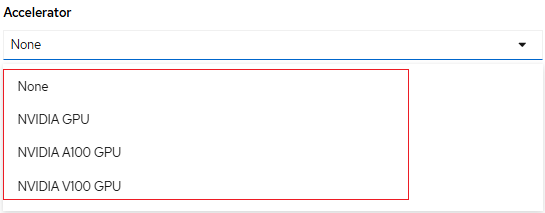
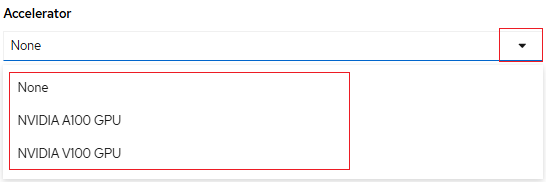
GPU Accelerator only 3 options updated

diff --git a/docs/openshift-ai/data-science-project/using-projects-the-rhoai.md b/docs/openshift-ai/data-science-project/using-projects-the-rhoai.md
@@ -89,7 +89,7 @@ On the Create workbench page, complete the following information.
     this "**NERC-OCP (OpenShift)**" resource allocation on NERC's ColdFront, as
     [described here](../../get-started/allocation/allocation-details.md#pi-and-manager-allocation-view-of-openshift-resource-allocation).
 
-    The different options for accelerator are "NONE", "NVIDIA GPU", "NVIDIA V100 GPU", and "NVIDIA A100 GPU" as shown below:
+    The different options for GPU accelerator are "NONE", "NVIDIA A100 GPU", and "NVIDIA V100 GPU" as shown below:
 
     ![NVIDIA GPU Accelerator](images/gpu_accelerator.png)
 

diff --git a/docs/openshift/gpus/intro-to-gpus-in-nerc-ocp.md b/docs/openshift/gpus/intro-to-gpus-in-nerc-ocp.md
@@ -45,6 +45,6 @@ There are two ways to deploy workloads on GPU nodes:
 
     !!! note "GPU Accelerator on NERC RHOAI"
 
-        The different options for accelerator are "NONE", "NVIDIA GPU", "NVIDIA V100 GPU", and "NVIDIA A100 GPU" as shown below:
+        The different options for GPU accelerator are "NONE", "NVIDIA A100 GPU", and "NVIDIA V100 GPU" as shown below:
 
         ![NVIDIA GPU Accelerator](images/gpu_accelerator.png)
